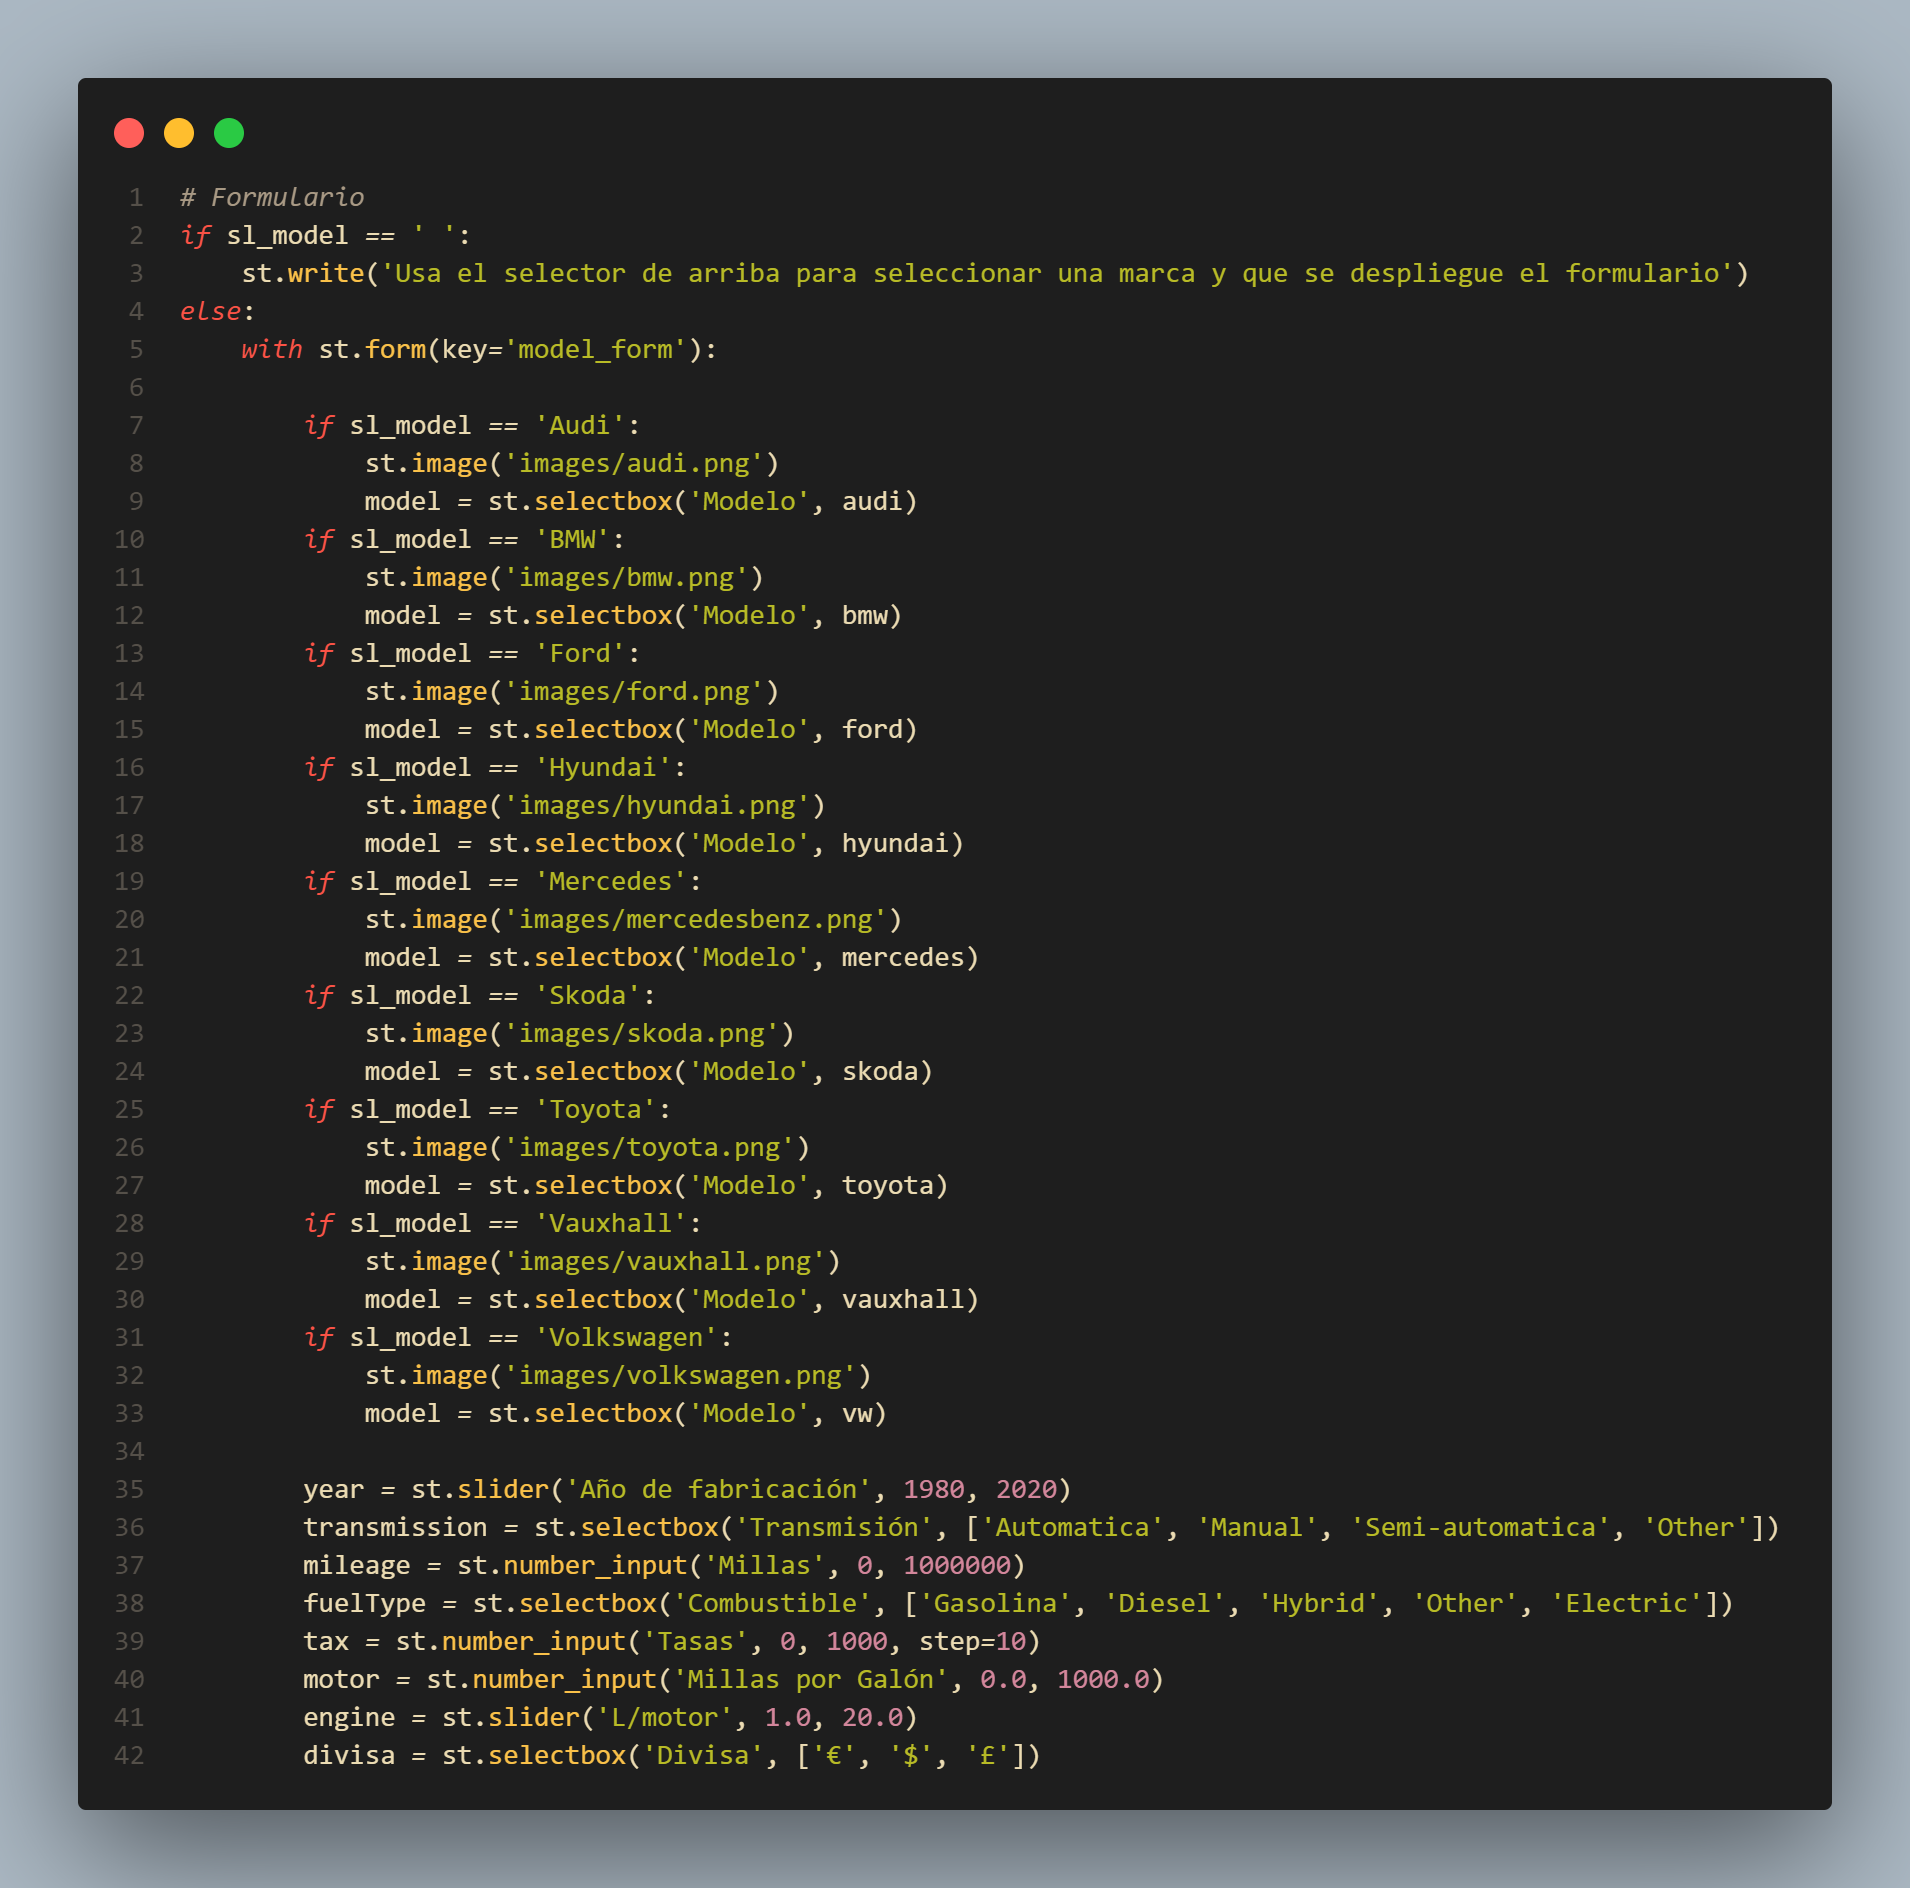
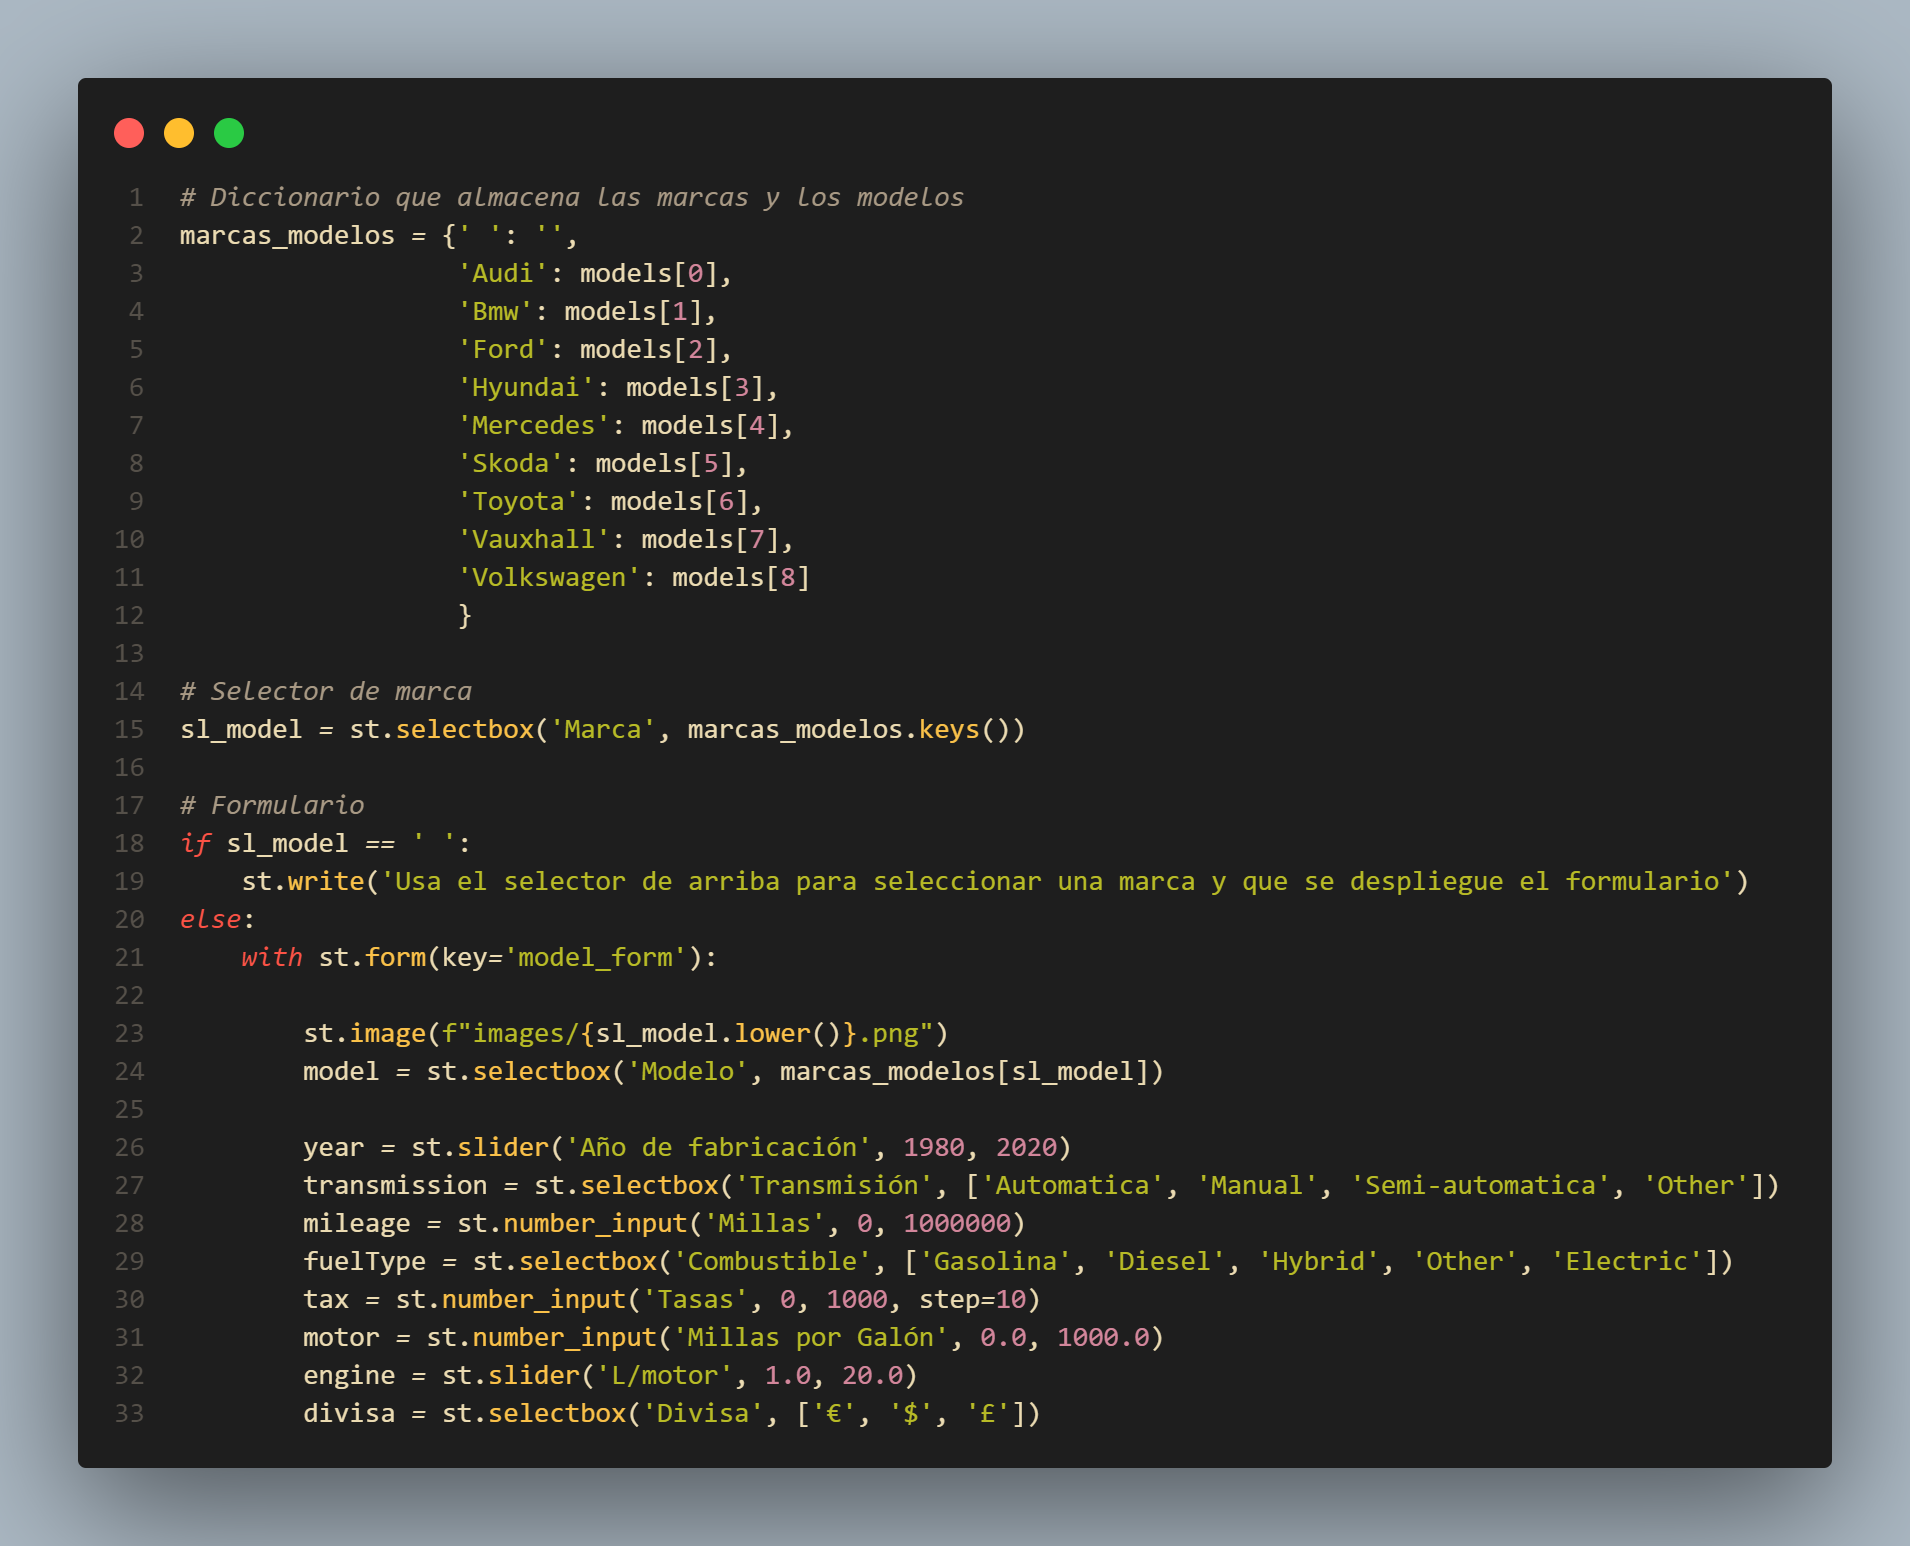
Version 2.1 - Refactorización del selector de marcas y modelos

diff --git a/cars-second-hand.py b/cars-second-hand.py
@@ -28,30 +28,23 @@ with col_2:
     logo = 'images/logo.gif'
     st.image(logo)
 
-st.markdown('##### ***(V.2)***')
+st.markdown('##### ***(V.2.1)***')
 
-# Variables donde se almacenan los datos para los menus
-audi = models[0]
-bmw = models[1]
-ford = models[2]
-hyundai = models[3]
-mercedes = models[4]
-skoda = models[5]
-toyota = models[6]
-vauxhall = models[7]
-vw = models[8]
+# Diccionario que almacena las marcas y los modelos
+marcas_modelos = {' ': '',
+                  'Audi': models[0],
+                  'Bmw': models[1],
+                  'Ford': models[2],
+                  'Hyundai': models[3],
+                  'Mercedes': models[4],
+                  'Skoda': models[5],
+                  'Toyota': models[6],
+                  'Vauxhall': models[7],
+                  'Volkswagen': models[8]
+                  }
 
-model = ' '
-
-sl_model = st.selectbox('Marca', [' ','Audi', 
-                                  'BMW', 
-                                  'Ford', 
-                                  'Hyundai', 
-                                  'Mercedes', 
-                                  'Skoda', 
-                                  'Toyota', 
-                                  'Vauxhall',
-                                  'Volkswagen'])
+# Selector de marca
+sl_model = st.selectbox('Marca', marcas_modelos.keys())
 
 # Formulario
 if sl_model == ' ':
@@ -59,33 +52,8 @@ if sl_model == ' ':
 else:     
     with st.form(key='model_form'):
         
-        if sl_model == 'Audi':
-            st.image('images/audi.png')
-            model = st.selectbox('Modelo', audi)
-        if sl_model == 'BMW':
-            st.image('images/bmw.png')
-            model = st.selectbox('Modelo', bmw)
-        if sl_model == 'Ford':
-            st.image('images/ford.png')
-            model = st.selectbox('Modelo', ford)
-        if sl_model == 'Hyundai':
-            st.image('images/hyundai.png')
-            model = st.selectbox('Modelo', hyundai)
-        if sl_model == 'Mercedes':
-            st.image('images/mercedesbenz.png')
-            model = st.selectbox('Modelo', mercedes)
-        if sl_model == 'Skoda':
-            st.image('images/skoda.png')
-            model = st.selectbox('Modelo', skoda)
-        if sl_model == 'Toyota':
-            st.image('images/toyota.png')
-            model = st.selectbox('Modelo', toyota)
-        if sl_model == 'Vauxhall':
-            st.image('images/vauxhall.png')
-            model = st.selectbox('Modelo', vauxhall)
-        if sl_model == 'Volkswagen':
-            st.image('images/volkswagen.png')
-            model = st.selectbox('Modelo', vw)
+        st.image(f"images/{sl_model.lower()}.png")
+        model = st.selectbox('Modelo', marcas_modelos[sl_model])
 
         year = st.slider('Año de fabricación', 1980, 2020)
         transmission = st.selectbox('Transmisión', ['Automatica', 'Manual', 'Semi-automatica', 'Other'])
